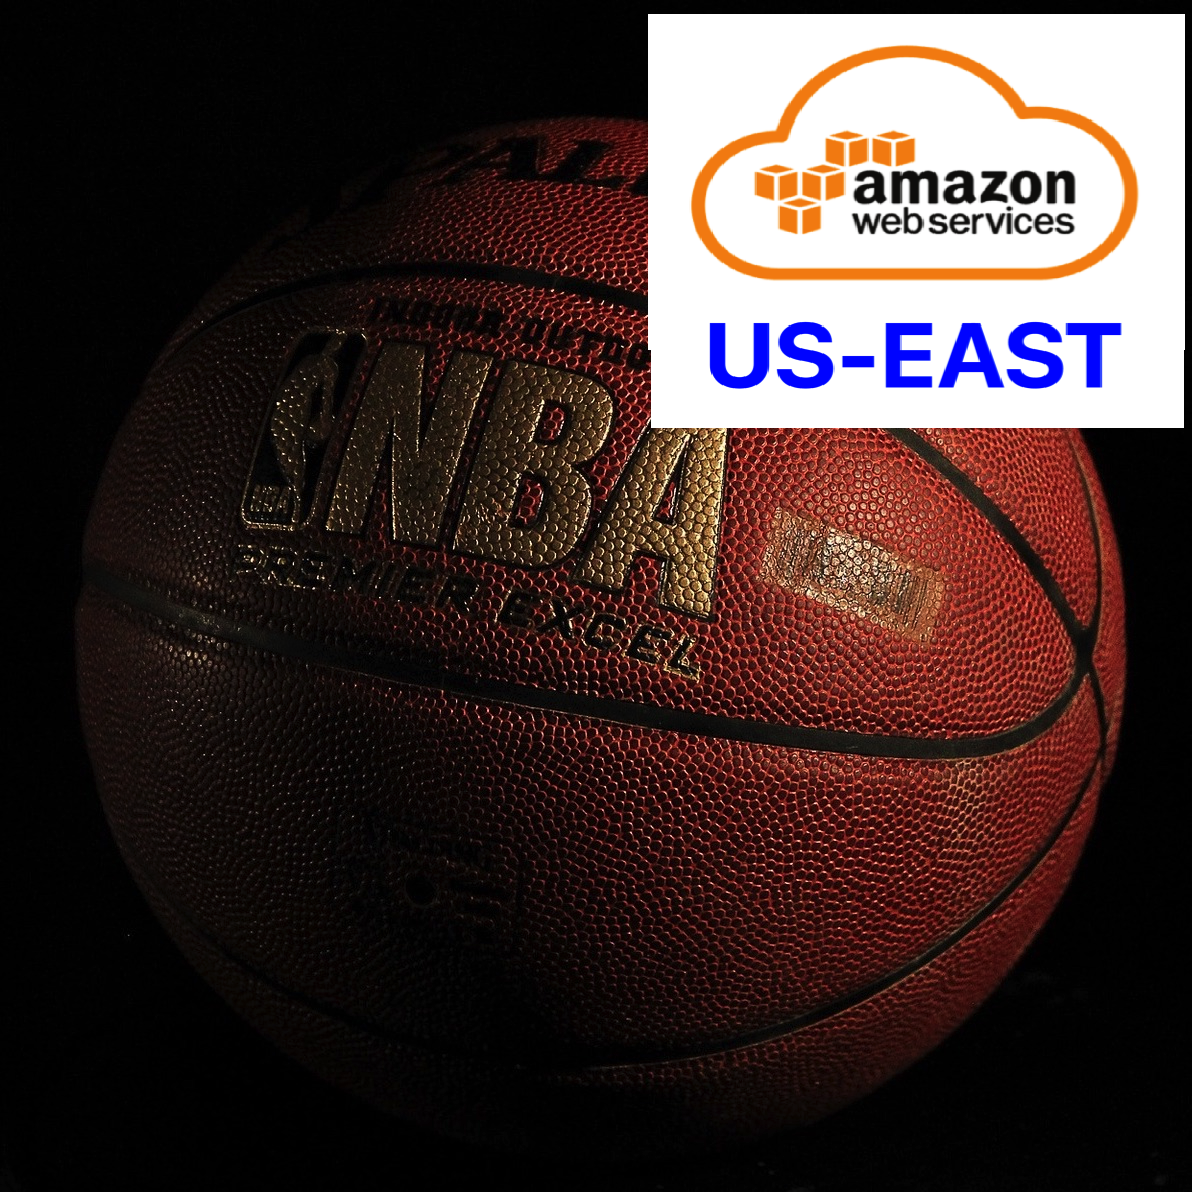
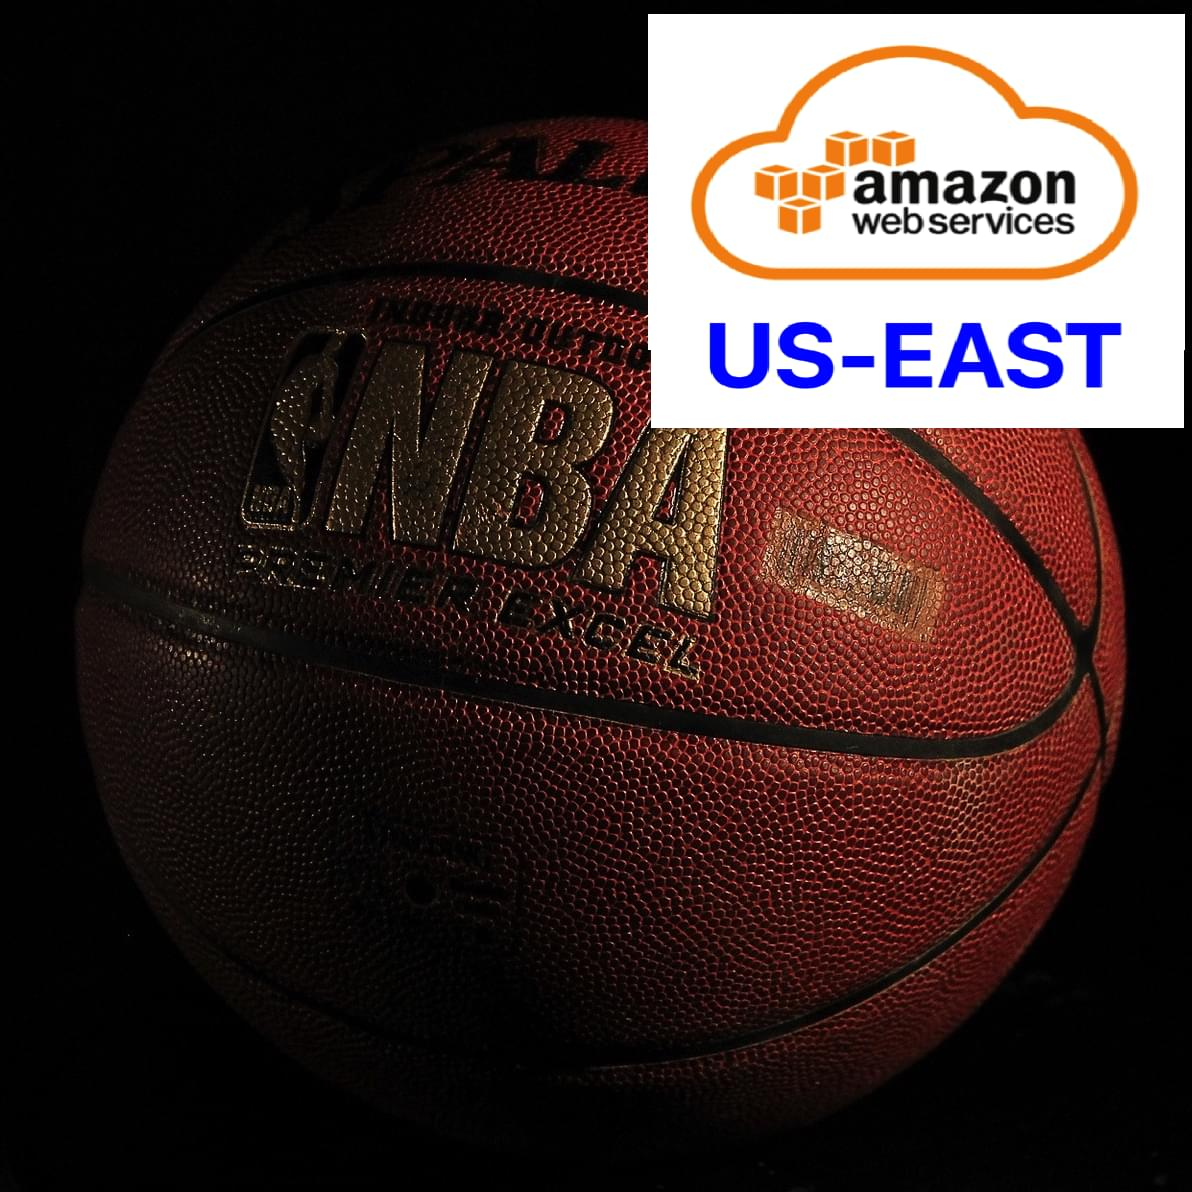
Adding easy to use makefile and shrinking/optimizing east/west catalog images to load faster

diff --git a/site-aware-containers/aws/acme-shopping-aws/services/catalog/index.js b/site-aware-containers/aws/acme-shopping-aws/services/catalog/index.js
@@ -13,18 +13,18 @@ app.get("/products", function(req, res, next) {
     console.log('requesting products')
 
     const productSpan = opentracing.globalTracer().startSpan('get_products', {
-        tags :{
-          'http.method' : 'GET',
-          'http.url': `http://${req.headers.host}${req.url}`,
+        tags: {
+            'http.method': 'GET',
+            'http.url': `http://${req.headers.host}${req.url}`,
         }
-      });
-  
-    opentracing.globalTracer().inject(productSpan.context() , opentracing.FORMAT_HTTP_HEADERS , req.headers)
+    });
+
+    opentracing.globalTracer().inject(productSpan.context(), opentracing.FORMAT_HTTP_HEADERS, req.headers)
 
 
     var headers = {
-      "uber-trace-id": req.headers['uber-trace-id'],
-      "Authorization": 'Bearer ' + req.cookies['logged_in']
+        "uber-trace-id": req.headers['uber-trace-id'],
+        "Authorization": 'Bearer ' + req.cookies['logged_in']
     }
 
     var options = {
@@ -32,11 +32,11 @@ app.get("/products", function(req, res, next) {
         method: 'GET',
         json: true,
         headers: headers
-      };
- 
-      request(options, function(error, response, body) {
+    };
+
+    request(options, function(error, response, body) {
         if (error) {
-          return next(error);
+            return next(error);
         }
 
         if (response.statusCode == 200) {
@@ -47,27 +47,26 @@ app.get("/products", function(req, res, next) {
             productSpan.setTag(opentracing.Tags.HTTP_STATUS_CODE, response.statusCode)
             productSpan.log({
                 'event': 'request_end'
-              });
+            });
             productSpan.finish();
 
             res.end();
-        } 
-        else {
+        } else {
             //console.log("Error with log in: " + req.body.username);
             res.status(response.statusCode);
             res.write(JSON.stringify(response.statusMessage))
-           
+
             productSpan.setTag(opentracing.Tags.HTTP_STATUS_CODE, response.statusCode)
             productSpan.setTag(opentracing.Tags.ERROR, true);
             productSpan.log({
-              'event': 'error',
-              'message': response.statusMessage.toString()
+                'event': 'error',
+                'message': response.statusMessage.toString()
             });
             productSpan.log({
-              'event': 'request_end'
+                'event': 'request_end'
             })
             productSpan.finish();
-           
+
             res.end();
         }
 
@@ -82,11 +81,11 @@ app.get("/catalogliveness", function(req, res, next) {
         uri: endpoints.catalogUrl + '/liveness',
         method: 'GET',
         json: true
-      };
- 
-      request(options, function(error, response, body) {
+    };
+
+    request(options, function(error, response, body) {
         if (error) {
-          return next(error);
+            return next(error);
         }
 
         if (response.statusCode == 200) {
@@ -94,8 +93,7 @@ app.get("/catalogliveness", function(req, res, next) {
             res.writeHead(200)
             res.write(JSON.stringify(body))
             res.end();
-        } 
-        else {
+        } else {
             //console.log("Error with log in: " + req.body.username);
             res.status(response.statusCode);
             res.write(JSON.stringify(response.statusMessage))
@@ -111,31 +109,31 @@ app.get("/products/:id", function(req, res, next) {
     console.log('requesting product details')
 
     const productSpan = opentracing.globalTracer().startSpan('get_product', {
-        tags :{
-          'http.method' : 'GET',
-          'http.url': `http://${req.headers.host}${req.url}`,
-          'product.id': req.params.id
+        tags: {
+            'http.method': 'GET',
+            'http.url': `http://${req.headers.host}${req.url}`,
+            'product.id': req.params.id
         }
-      });
+    });
 
-        
-    opentracing.globalTracer().inject(productSpan.context() , opentracing.FORMAT_HTTP_HEADERS , req.headers)
+
+    opentracing.globalTracer().inject(productSpan.context(), opentracing.FORMAT_HTTP_HEADERS, req.headers)
 
     var headers = {
-      "uber-trace-id": req.headers['uber-trace-id'],
-      "Authorization": 'Bearer ' + req.cookies['logged_in']
+        "uber-trace-id": req.headers['uber-trace-id'],
+        "Authorization": 'Bearer ' + req.cookies['logged_in']
     }
 
     var options = {
-        uri:  endpoints.catalogUrl + "/products/" + req.params.id,
+        uri: endpoints.catalogUrl + "/products/" + req.params.id,
         method: 'GET',
         json: true,
         headers: headers
-      };
+    };
 
-      request(options, function(error, response, body) {
+    request(options, function(error, response, body) {
         if (error) {
-          return next(error);
+            return next(error);
         }
 
         if (response.statusCode == 200) {
@@ -146,13 +144,11 @@ app.get("/products/:id", function(req, res, next) {
             productSpan.setTag(opentracing.Tags.HTTP_STATUS_CODE, response.statusCode)
             productSpan.log({
                 'event': 'request_end'
-              });
+            });
             productSpan.finish();
 
             res.end();
-        } 
-        
-        else {
+        } else {
             //console.log("Error with log in: " + req.body.username);
             res.status(response.statusCode);
             res.write(JSON.stringify(response.statusCode))
@@ -160,11 +156,11 @@ app.get("/products/:id", function(req, res, next) {
             productSpan.setTag(opentracing.Tags.HTTP_STATUS_CODE, response.statusCode)
             productSpan.setTag(opentracing.Tags.ERROR, true);
             productSpan.log({
-              'event': 'error',
-              'message': response.statusMessage.toString()
+                'event': 'error',
+                'message': response.statusMessage.toString()
             });
             productSpan.log({
-              'event': 'request_end'
+                'event': 'request_end'
             })
             productSpan.finish();
 
@@ -174,7 +170,7 @@ app.get("/products/:id", function(req, res, next) {
     }); // end of request
 });
 
-app.get("/static/images/:id", function(req, res, next){
+app.get("/static/images/:id", function(req, res, next) {
 
 
     console.log("retrieving images")
@@ -182,8 +178,8 @@ app.get("/static/images/:id", function(req, res, next){
     var url = endpoints.catalogUrl + "/static/images/" + req.params.id
 
     request.get(url)
-    .on('error', function(e) { next(e); })
-    .pipe(res); // end of request
+        .on('error', function(e) { next(e); })
+        .pipe(res); // end of request
 
 
 });
